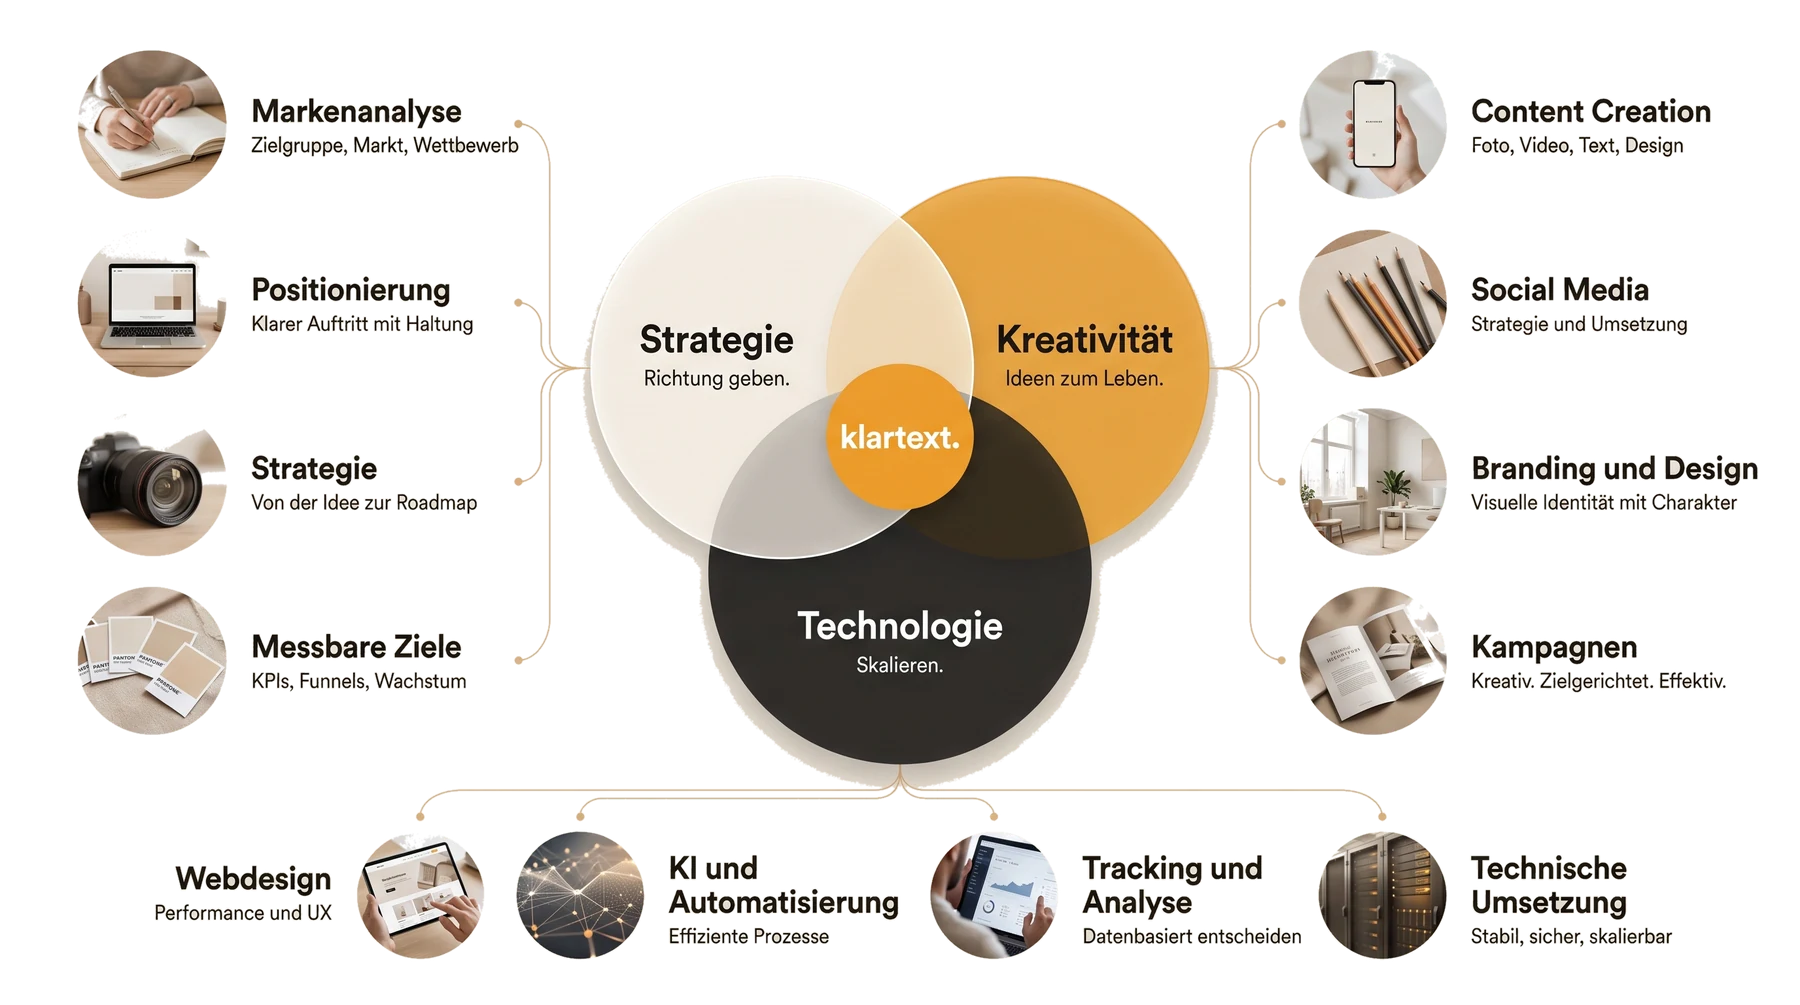
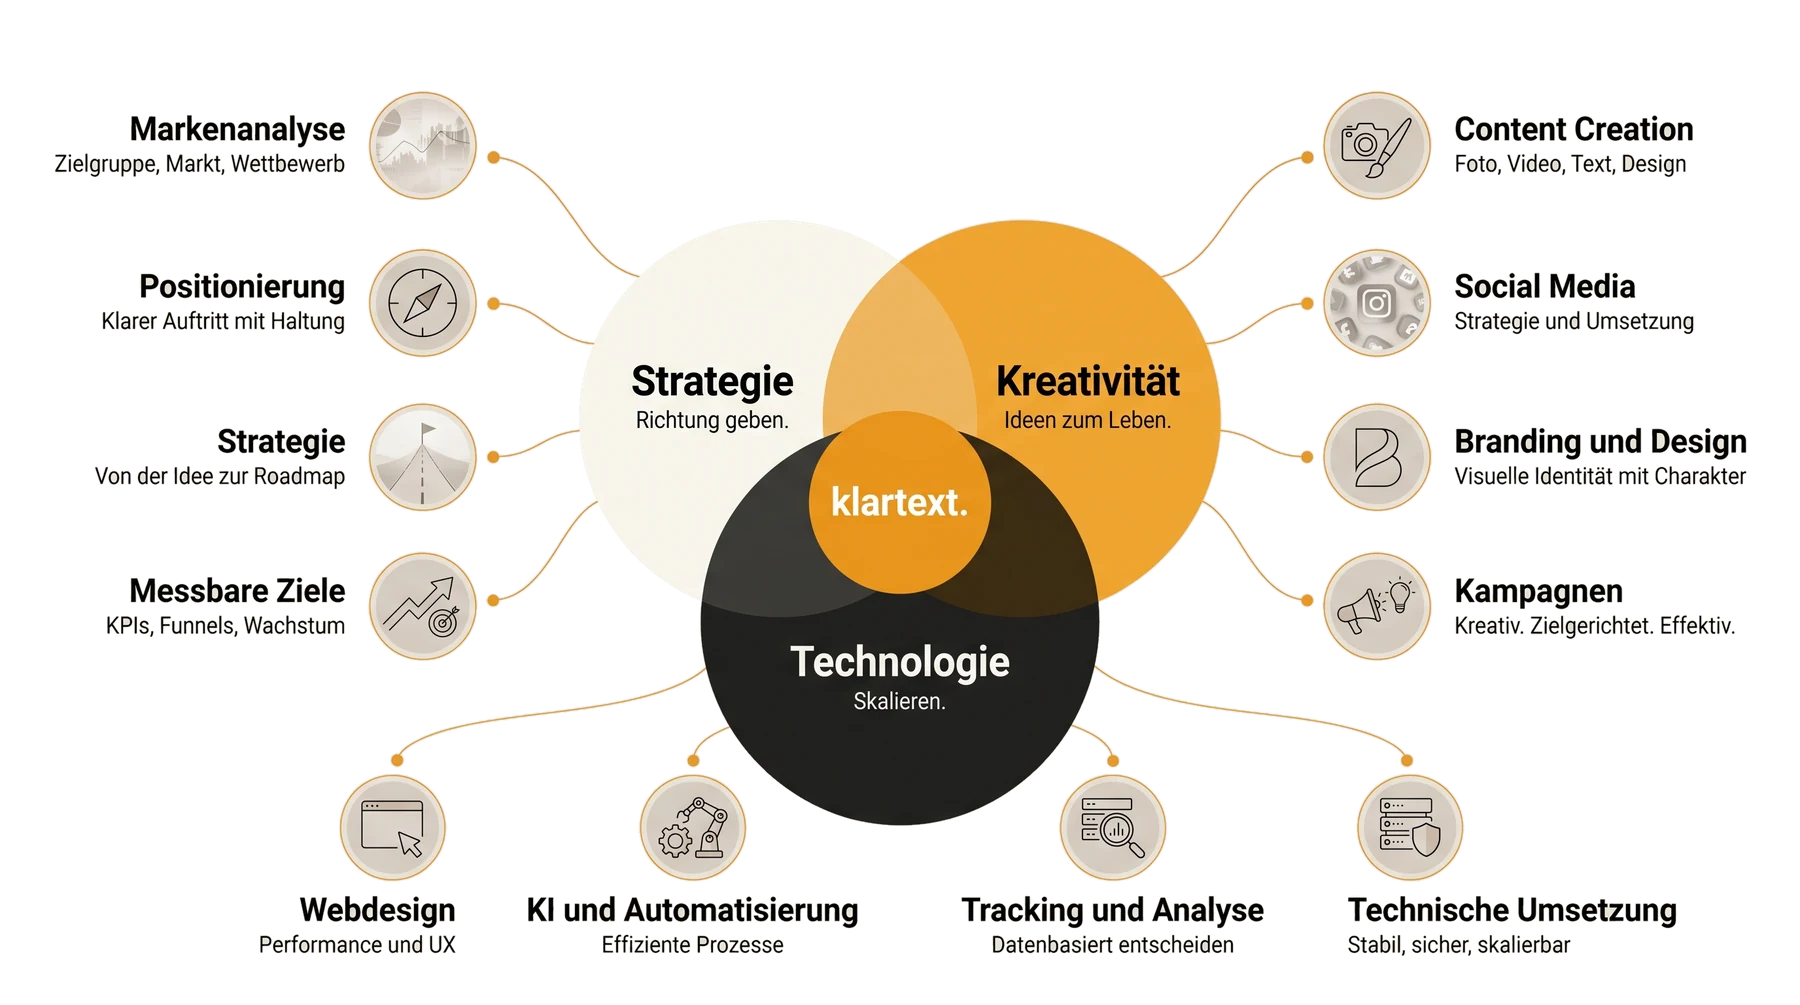
Arbeitsweise: kein Kasten, flache Kreise, kleine Symbole
Neu erzeugt mit vier Vorgaben: keine Karte und kein Rahmen, absolut
flache Kreise ohne Schatten und ohne Kugeloptik, kleine ruhige
Symbolkreise statt grosser Braunfotos, und jedes Symbol an einer
EIGENEN duennen Kurve mit Punkt am Ende statt an einer Sammelklammer.

Der Kasten ist auch im Stylesheet weg: die beiden Bernsteinschleier
laufen jetzt ohne Kante aus, liegen direkt auf dem Seitengrund und
haben weder Radius noch Fuellfarbe.

diff --git a/stil.css b/stil.css
@@ -2510,28 +2510,25 @@ body.langtakt .preis__neu{font-size:1em;opacity:1}
   white-space:nowrap}
 
 /* ── Wie wir arbeiten ──────────────────────────────────────
-   Die Grafik ist freigestellt: der Sandgrund, auf dem sie erzeugt
-   wurde, ist herausgeschnitten. Entfernt wurde nur, was vom Rand aus
-   zusammenhaengt — ein Farbfilter haette den hellen Kreis "Strategie"
-   mitgenommen, der dem Hintergrund farblich sehr nahe liegt.
+   Kein Kasten: die Grafik steht frei auf der Flaeche. Der Sandgrund,
+   auf dem sie erzeugt wurde, ist herausgeschnitten — entfernt wurde
+   nur, was vom Rand aus zusammenhaengt, sonst haette ein Farbfilter
+   den hellen Kreis "Strategie" mitgenommen.
 
-   Darunter liegt eine helle Flaeche mit zwei weichen Bernstein-
-   schleiern, unten links kraeftiger als oben rechts.
+   Die beiden Bernsteinschleier laufen ohne Kante aus. Sie liegen
+   direkt auf dem Seitengrund und haben deshalb keinen Radius und
+   keine Fuellfarbe — sonst waere wieder ein Kasten da.
 
    Die Grafik traegt ihren Text als Bild. Deshalb steht die volle
    Beschreibung im alt-Text: fuer Vorleseprogramme und fuer Google ist
    das der einzige Zugang zu diesen zwoelf Begriffen. */
 .wiewir{padding:var(--sec) var(--pad) 0;
-  max-width:calc(var(--maxw) + var(--pad) * 2);margin:0 auto}
-.wiewir__buehne{position:relative;overflow:hidden;
-  border-radius:var(--r-seite);
+  max-width:calc(var(--maxw) + var(--pad) * 2);margin:0 auto;
   background:
-    radial-gradient(56% 62% at 4% 86%, rgb(245 165 36 / .30) 0%, transparent 62%),
-    radial-gradient(44% 56% at 98% 10%, rgb(245 165 36 / .16) 0%, transparent 62%),
-    #FBF9F5;
-  padding:clamp(36px,3.6vw,64px) clamp(24px,2.6vw,48px) clamp(20px,2vw,36px)}
+    radial-gradient(48% 46% at 6% 76%, rgb(245 165 36 / .20) 0%, transparent 64%),
+    radial-gradient(38% 40% at 97% 16%, rgb(245 165 36 / .12) 0%, transparent 64%)}
 .wiewir__kopf{text-align:center;display:grid;justify-items:center}
 .wiewir__kopf h2{font-size:clamp(32px,3.6vw,60px);margin-top:6px}
 .wiewir__kopf .fuehrung{margin-top:16px;max-width:56ch;text-align:center}
-.wiewir__bild{margin:clamp(18px,1.8vw,30px) 0 0;line-height:0}
+.wiewir__bild{margin:clamp(20px,2vw,34px) 0 0;line-height:0}
 .wiewir__bild img{width:100%;height:auto;display:block}

diff --git a/index.html b/index.html
@@ -335,7 +335,6 @@
   <!-- ══ 6 · Arbeiten ══ -->
   <!-- ══ Wie wir arbeiten ══ -->
   <section class="wiewir">
-    <div class="wiewir__buehne">
     <div class="wiewir__kopf">
       <span class="chip" data-rein>Wie wir arbeiten</span>
       <h2 data-rein-zeilen><span>Klarheit verbindet alles<em class="punkt">.</em></span></h2>
@@ -346,7 +345,6 @@
       <img src="bilder/arbeitsweise.webp" loading="lazy"
            alt="Drei sich überlappende Kreise: Strategie gibt die Richtung, Kreativität erweckt Ideen zum Leben, Technologie skaliert. In der Mitte KLARTEXT. Daran hängen zwölf Arbeitsfelder: Markenanalyse, Positionierung, Strategie und messbare Ziele; Content Creation, Social Media, Branding und Design, Kampagnen; Webdesign, KI und Automatisierung, Tracking und Analyse, technische Umsetzung.">
     </figure>
-    </div>
   </section>
 
   <section class="werke" id="arbeiten">
